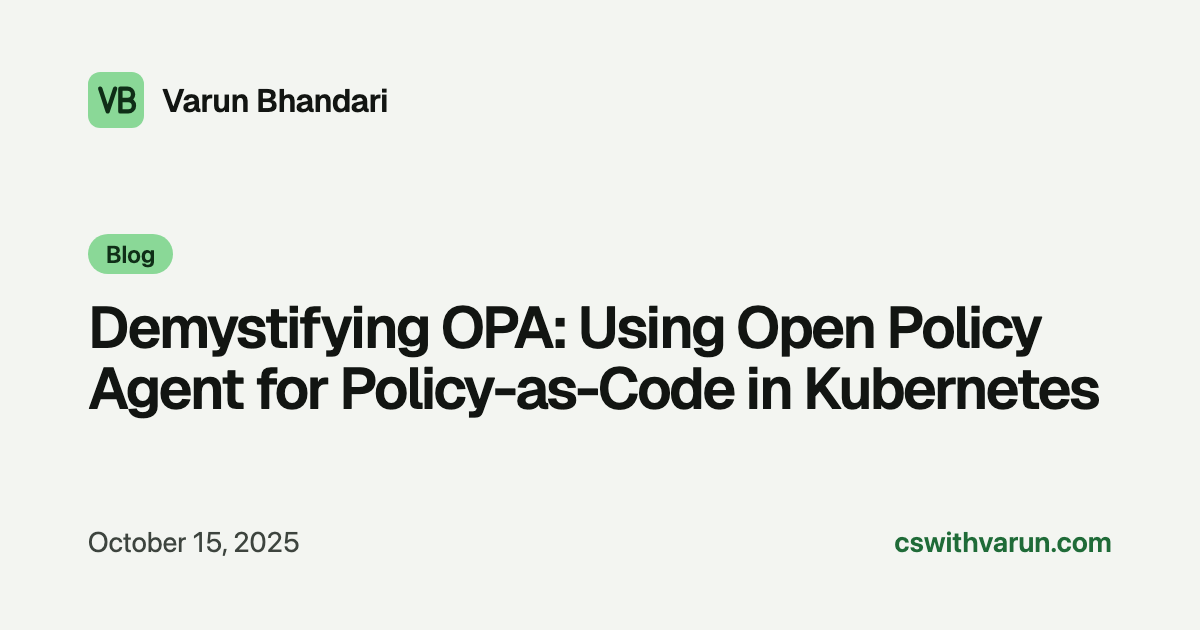
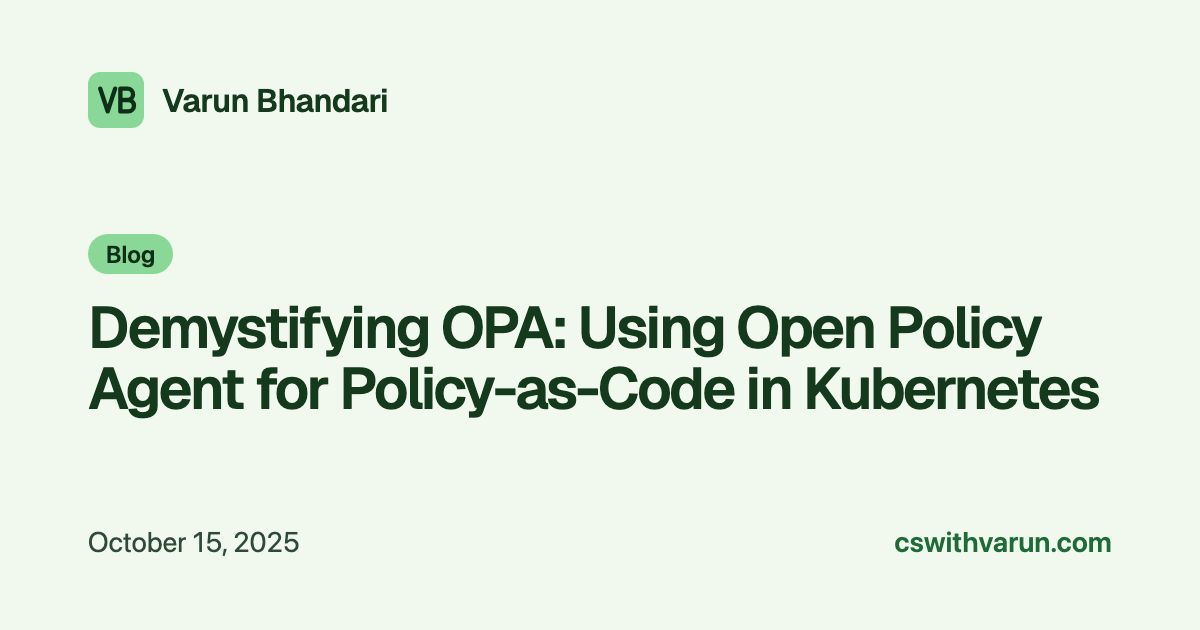
Soft theme: full mint light palette with forest-green text

Changed region(s): [[0.0617, 0.4825, 0.925, 0.6635], [0.1233, 0.1206, 0.3392, 0.181]]

diff --git a/assets/css/palette.css b/assets/css/palette.css
@@ -1,5 +1,5 @@
 /* ================================
-   Palette: Soft (sage surfaces, forest-green accent)
+   Palette: Soft (mint surfaces, forest-green text, fresh-green accents)
    The only file that changes between colour themes. Everything else derives from
    these tokens (theme.css), and scripts/generate-brand-assets.mjs reads the accent
    and surface colours from here for the logo, favicons and share images.
@@ -9,31 +9,31 @@
 :root {
     color-scheme: light;
 
-    /* Surfaces: white cards floating on a soft sage page */
-    --bg-primary: #f3f5f1;
-    --bg-secondary: #eaeee7;
-    --bg-tertiary: #e3e8df;
+    /* Surfaces: pale mint page, mint section bands, white cards on top */
+    --bg-primary: #f1f8ee;
+    --bg-secondary: #e4f2de;
+    --bg-tertiary: #d6ebce;
     --bg-card: #fff;
 
-    /* Text */
-    --text-primary: #121512;
-    --text-secondary: #3d443e;
-    --text-muted: #5a625b;
+    /* Text: dark forest green instead of black (11.9:1 on the page) */
+    --text-primary: #14391c;
+    --text-secondary: #2f4a35;
+    --text-muted: #4b6650;
 
     /* Accent, in three roles:
        text    - links and small labels; must reach 4.5:1 on every surface
        fill    - buttons, active pills, chips, logo; a fresh mint with dark text on it (8.7:1)
        display - large headlines and big numbers; brighter, as large text needs only 3:1 */
     --color-primary: #1f6b38;
-    --color-secondary: #165029;
+    --color-secondary: #14391c;
     --accent-fill: #8ad897;
     --on-accent: #0f2e17;
     --accent-display: #2b9147;
     --color-danger: #b91c1c;
 
-    /* Borders: barely-there card edges; stronger edge for form controls (3:1) */
-    --border-color: #e2e7de;
-    --border-strong: #7d877e;
+    /* Borders: soft mint card edges; stronger edge for form controls (3:1) */
+    --border-color: #d5e6ce;
+    --border-strong: #6f8a72;
     --focus-ring: var(--color-primary);
 
     /* Platform badges */
@@ -41,19 +41,19 @@
     --platform-substack: #9a3412;
 
     /* Code */
-    --code-bg: #eef1ec;
+    --code-bg: #e8f3e3;
     --code-inline: var(--color-primary);
-    --code-comment: #5a625b;
+    --code-comment: #4b6650;
     --code-keyword: #6d28d9;
     --code-string: #047857;
     --code-number: #b45309;
     --code-name: #0e7490;
     --code-builtin: #9d174d;
 
-    /* Soft, diffuse shadows instead of hard borders */
-    --shadow-sm: 0 1px 2px rgb(18 28 18 / 0.04), 0 1px 3px rgb(18 28 18 / 0.04);
-    --shadow-md: 0 4px 16px rgb(18 28 18 / 0.06);
-    --shadow-lg: 0 12px 32px rgb(18 28 18 / 0.08);
+    /* Soft, green-tinted shadows */
+    --shadow-sm: 0 1px 2px rgb(20 57 28 / 0.05), 0 1px 3px rgb(20 57 28 / 0.05);
+    --shadow-md: 0 4px 16px rgb(20 57 28 / 0.07);
+    --shadow-lg: 0 12px 32px rgb(20 57 28 / 0.09);
 }
 
 [data-theme='dark'] {
